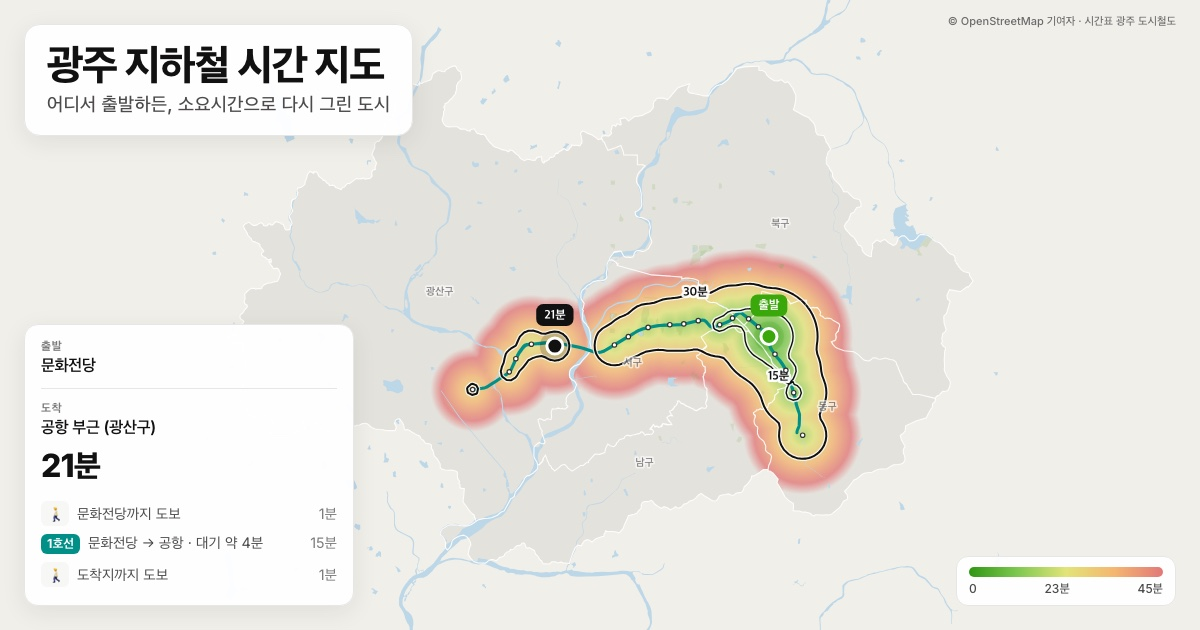
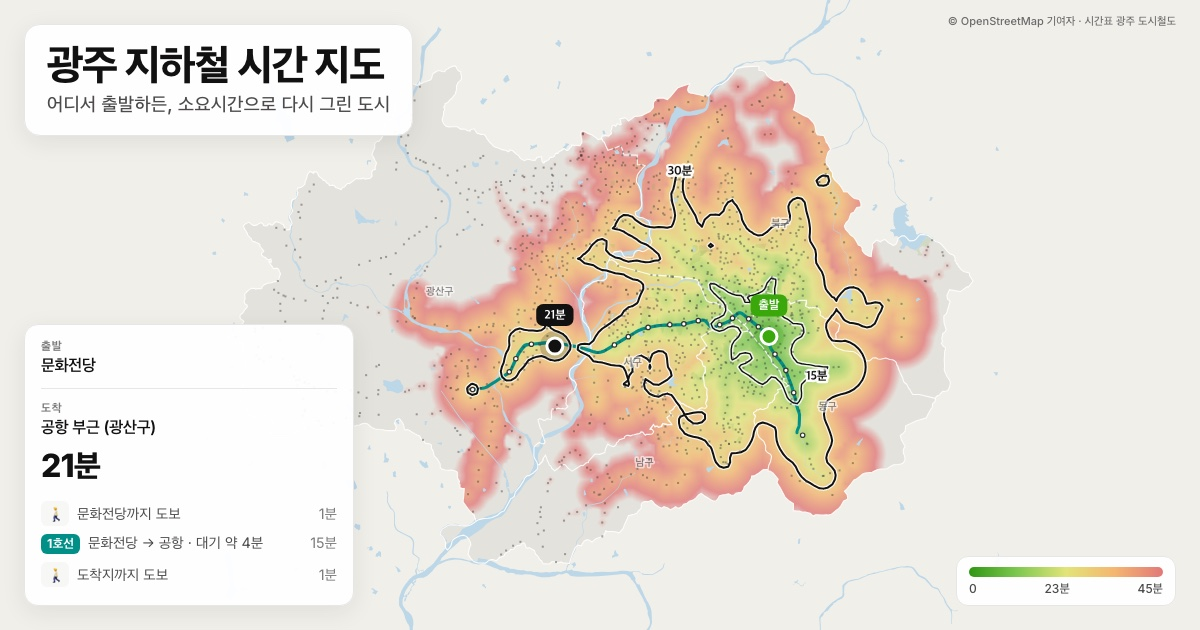
버스를 기본으로 포함 (bus=0으로 끔), 썸네일 다시 생성

Changed region(s): [[0.3083, 0.1206, 0.8017, 0.8143], [0.37, 0.6333, 0.4317, 0.8143]]

diff --git a/site/gwangju/index.html b/site/gwangju/index.html
@@ -16,7 +16,7 @@
     <meta property="og:title" content="광주 지하철 시간 지도" />
     <meta property="og:description" content="광주 지하철 소요시간 지도: 출발지를 고르면 도시 곳곳까지 걸리는 시간이 색으로 표시됩니다(광주 도시철도)." />
     <meta property="og:url" content="https://transit.yumes.net/gwangju/" />
-    <meta property="og:image" content="https://transit.yumes.net/og/gwangju.jpg?v=d34fc234" />
+    <meta property="og:image" content="https://transit.yumes.net/og/gwangju.jpg?v=68bdc7be" />
     <meta property="og:image:width" content="1200" />
     <meta property="og:image:height" content="630" />
     <meta property="og:image:alt" content="문화전당에서 출발하는 지하철 소요시간으로 색칠한 광주 지도, 15분·30분 등시선 포함." />
@@ -24,7 +24,7 @@
     <meta name="twitter:card" content="summary_large_image" />
     <meta name="twitter:title" content="광주 지하철 시간 지도" />
     <meta name="twitter:description" content="광주 지하철 소요시간 지도: 출발지를 고르면 도시 곳곳까지 걸리는 시간이 색으로 표시됩니다(광주 도시철도)." />
-    <meta name="twitter:image" content="https://transit.yumes.net/og/gwangju.jpg?v=d34fc234" />
+    <meta name="twitter:image" content="https://transit.yumes.net/og/gwangju.jpg?v=68bdc7be" />
     <script type="application/ld+json">
     {
       "@context": "https://schema.org",
@@ -323,6 +323,6 @@
     </footer>
 
     <div id="toast" class="toast" role="status" hidden></div>
-    <script type="module" src="../app.js?v=b7305bcd"></script>
+    <script type="module" src="../app.js?v=53fce2d5"></script>
   </body>
 </html>

diff --git a/site/daejeon/index.html b/site/daejeon/index.html
@@ -16,7 +16,7 @@
     <meta property="og:title" content="대전 지하철 시간 지도" />
     <meta property="og:description" content="대전 지하철 소요시간 지도: 출발지를 고르면 도시 곳곳까지 걸리는 시간이 색으로 표시됩니다(대전 도시철도)." />
     <meta property="og:url" content="https://transit.yumes.net/daejeon/" />
-    <meta property="og:image" content="https://transit.yumes.net/og/daejeon.jpg?v=e14812e0" />
+    <meta property="og:image" content="https://transit.yumes.net/og/daejeon.jpg?v=45dd5fbf" />
     <meta property="og:image:width" content="1200" />
     <meta property="og:image:height" content="630" />
     <meta property="og:image:alt" content="중앙로에서 출발하는 지하철 소요시간으로 색칠한 대전 지도, 15분·30분 등시선 포함." />
@@ -24,7 +24,7 @@
     <meta name="twitter:card" content="summary_large_image" />
     <meta name="twitter:title" content="대전 지하철 시간 지도" />
     <meta name="twitter:description" content="대전 지하철 소요시간 지도: 출발지를 고르면 도시 곳곳까지 걸리는 시간이 색으로 표시됩니다(대전 도시철도)." />
-    <meta name="twitter:image" content="https://transit.yumes.net/og/daejeon.jpg?v=e14812e0" />
+    <meta name="twitter:image" content="https://transit.yumes.net/og/daejeon.jpg?v=45dd5fbf" />
     <script type="application/ld+json">
     {
       "@context": "https://schema.org",
@@ -323,6 +323,6 @@
     </footer>
 
     <div id="toast" class="toast" role="status" hidden></div>
-    <script type="module" src="../app.js?v=b7305bcd"></script>
+    <script type="module" src="../app.js?v=53fce2d5"></script>
   </body>
 </html>

diff --git a/site/daegu/index.html b/site/daegu/index.html
@@ -16,7 +16,7 @@
     <meta property="og:title" content="대구 지하철 시간 지도" />
     <meta property="og:description" content="대구 지하철 소요시간 지도: 출발지를 고르면 도시 곳곳까지 걸리는 시간이 색으로 표시됩니다(대구 도시철도)." />
     <meta property="og:url" content="https://transit.yumes.net/daegu/" />
-    <meta property="og:image" content="https://transit.yumes.net/og/daegu.jpg?v=2180977c" />
+    <meta property="og:image" content="https://transit.yumes.net/og/daegu.jpg?v=89fdd863" />
     <meta property="og:image:width" content="1200" />
     <meta property="og:image:height" content="630" />
     <meta property="og:image:alt" content="반월당에서 출발하는 지하철 소요시간으로 색칠한 대구 지도, 15분·30분 등시선 포함." />
@@ -24,7 +24,7 @@
     <meta name="twitter:card" content="summary_large_image" />
     <meta name="twitter:title" content="대구 지하철 시간 지도" />
     <meta name="twitter:description" content="대구 지하철 소요시간 지도: 출발지를 고르면 도시 곳곳까지 걸리는 시간이 색으로 표시됩니다(대구 도시철도)." />
-    <meta name="twitter:image" content="https://transit.yumes.net/og/daegu.jpg?v=2180977c" />
+    <meta name="twitter:image" content="https://transit.yumes.net/og/daegu.jpg?v=89fdd863" />
     <script type="application/ld+json">
     {
       "@context": "https://schema.org",
@@ -326,6 +326,6 @@
     </footer>
 
     <div id="toast" class="toast" role="status" hidden></div>
-    <script type="module" src="../app.js?v=b7305bcd"></script>
+    <script type="module" src="../app.js?v=53fce2d5"></script>
   </body>
 </html>

diff --git a/site/busan/index.html b/site/busan/index.html
@@ -16,7 +16,7 @@
     <meta property="og:title" content="부산 지하철 시간 지도" />
     <meta property="og:description" content="부산 지하철 소요시간 지도: 출발지를 고르면 도시 곳곳까지 걸리는 시간이 색으로 표시됩니다(부산 도시철도)." />
     <meta property="og:url" content="https://transit.yumes.net/busan/" />
-    <meta property="og:image" content="https://transit.yumes.net/og/busan.jpg?v=3eb0826e" />
+    <meta property="og:image" content="https://transit.yumes.net/og/busan.jpg?v=1247f963" />
     <meta property="og:image:width" content="1200" />
     <meta property="og:image:height" content="630" />
     <meta property="og:image:alt" content="서면에서 출발하는 지하철 소요시간으로 색칠한 부산 지도, 15분·30분 등시선 포함." />
@@ -24,7 +24,7 @@
     <meta name="twitter:card" content="summary_large_image" />
     <meta name="twitter:title" content="부산 지하철 시간 지도" />
     <meta name="twitter:description" content="부산 지하철 소요시간 지도: 출발지를 고르면 도시 곳곳까지 걸리는 시간이 색으로 표시됩니다(부산 도시철도)." />
-    <meta name="twitter:image" content="https://transit.yumes.net/og/busan.jpg?v=3eb0826e" />
+    <meta name="twitter:image" content="https://transit.yumes.net/og/busan.jpg?v=1247f963" />
     <script type="application/ld+json">
     {
       "@context": "https://schema.org",
@@ -328,6 +328,6 @@
     </footer>
 
     <div id="toast" class="toast" role="status" hidden></div>
-    <script type="module" src="../app.js?v=b7305bcd"></script>
+    <script type="module" src="../app.js?v=53fce2d5"></script>
   </body>
 </html>

diff --git a/site/seoul/index.html b/site/seoul/index.html
@@ -16,7 +16,7 @@
     <meta property="og:title" content="서울 지하철 시간 지도" />
     <meta property="og:description" content="서울 지하철 소요시간 지도: 출발지를 고르면 도시 곳곳까지 걸리는 시간이 색으로 표시됩니다(수도권 전철)." />
     <meta property="og:url" content="https://transit.yumes.net/seoul/" />
-    <meta property="og:image" content="https://transit.yumes.net/og/seoul.jpg?v=4ce67712" />
+    <meta property="og:image" content="https://transit.yumes.net/og/seoul.jpg?v=1d04a2c8" />
     <meta property="og:image:width" content="1200" />
     <meta property="og:image:height" content="630" />
     <meta property="og:image:alt" content="시청에서 출발하는 지하철 소요시간으로 색칠한 서울 지도, 15분·30분 등시선 포함." />
@@ -24,7 +24,7 @@
     <meta name="twitter:card" content="summary_large_image" />
     <meta name="twitter:title" content="서울 지하철 시간 지도" />
     <meta name="twitter:description" content="서울 지하철 소요시간 지도: 출발지를 고르면 도시 곳곳까지 걸리는 시간이 색으로 표시됩니다(수도권 전철)." />
-    <meta name="twitter:image" content="https://transit.yumes.net/og/seoul.jpg?v=4ce67712" />
+    <meta name="twitter:image" content="https://transit.yumes.net/og/seoul.jpg?v=1d04a2c8" />
     <script type="application/ld+json">
     {
       "@context": "https://schema.org",
@@ -345,6 +345,6 @@
     </footer>
 
     <div id="toast" class="toast" role="status" hidden></div>
-    <script type="module" src="../app.js?v=b7305bcd"></script>
+    <script type="module" src="../app.js?v=53fce2d5"></script>
   </body>
 </html>

diff --git a/site/index.html b/site/index.html
@@ -16,7 +16,7 @@
     <meta property="og:title" content="대중교통 시간 지도" />
     <meta property="og:description" content="서울, 부산, 대구, 대전, 광주의 지하철 소요시간 지도: 출발지를 고르면 도시가 소요시간에 따라 색칠됩니다." />
     <meta property="og:url" content="https://transit.yumes.net/" />
-    <meta property="og:image" content="https://transit.yumes.net/og/home.jpg?v=ae91603f" />
+    <meta property="og:image" content="https://transit.yumes.net/og/home.jpg?v=dc3d16c5" />
     <meta property="og:image:width" content="1200" />
     <meta property="og:image:height" content="630" />
     <meta property="og:image:alt" content="서울, 부산, 대구, 대전, 광주의 지하철 소요시간 지도." />
@@ -24,7 +24,7 @@
     <meta name="twitter:card" content="summary_large_image" />
     <meta name="twitter:title" content="대중교통 시간 지도" />
     <meta name="twitter:description" content="서울, 부산, 대구, 대전, 광주의 지하철 소요시간 지도: 출발지를 고르면 도시가 소요시간에 따라 색칠됩니다." />
-    <meta name="twitter:image" content="https://transit.yumes.net/og/home.jpg?v=ae91603f" />
+    <meta name="twitter:image" content="https://transit.yumes.net/og/home.jpg?v=dc3d16c5" />
     <script type="application/ld+json">
     {
       "@context": "https://schema.org",

diff --git a/site/app.js b/site/app.js
@@ -1100,12 +1100,16 @@ function parsePair(value) {
   return match ? toWorld(Number(match[1]), Number(match[2])) : null;
 }
 
+function hasBus() {
+  return !$("busToggle").closest("label").hidden;
+}
+
 function syncUrl() {
   const params = new URLSearchParams();
   if (app.from) params.set("from", formatPair(app.from.point));
   if (app.to) params.set("to", formatPair(app.to.point));
   if (app.to && app.heatFrom === "to") params.set("carte", "arrivee");
-  if (app.includeBus) params.set("bus", "1");
+  if (hasBus() && !app.includeBus) params.set("bus", "0");
   if (app.maxMinutes !== DEFAULT_MAX) params.set("max", String(app.maxMinutes));
   const iso = [...app.isochrones].sort((a, b) => a - b).join(",");
   if (iso !== DEFAULT_ISOCHRONES.join(",")) params.set("iso", iso || "0");
@@ -1115,7 +1119,8 @@ function syncUrl() {
 
 function restoreFromUrl() {
   const params = new URLSearchParams(location.search);
-  app.includeBus = params.get("bus") === "1";
+  // Bus compris par défaut quand la ville en a ; « bus=0 » revient au seul métro.
+  app.includeBus = hasBus() && params.get("bus") !== "0";
   $("busToggle").checked = app.includeBus;
   const max = Number(params.get("max"));
   if (max >= 20 && max <= 90) app.maxMinutes = max;
